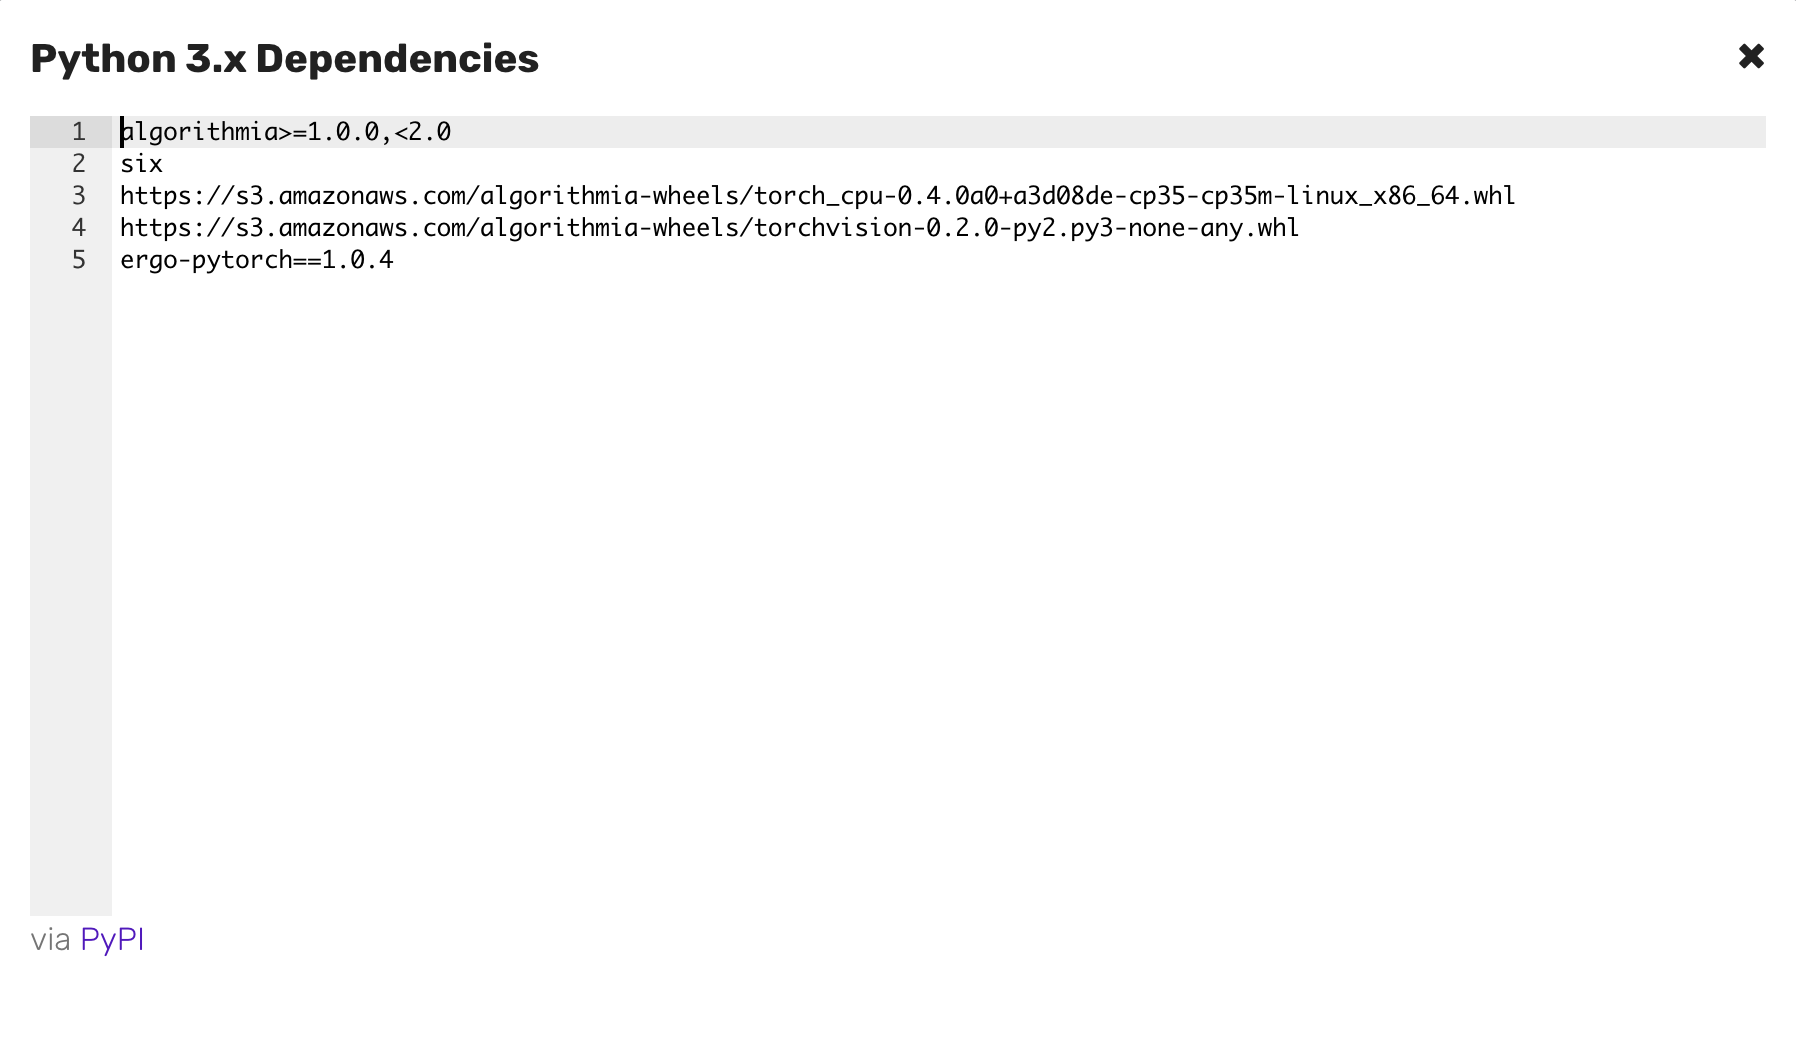
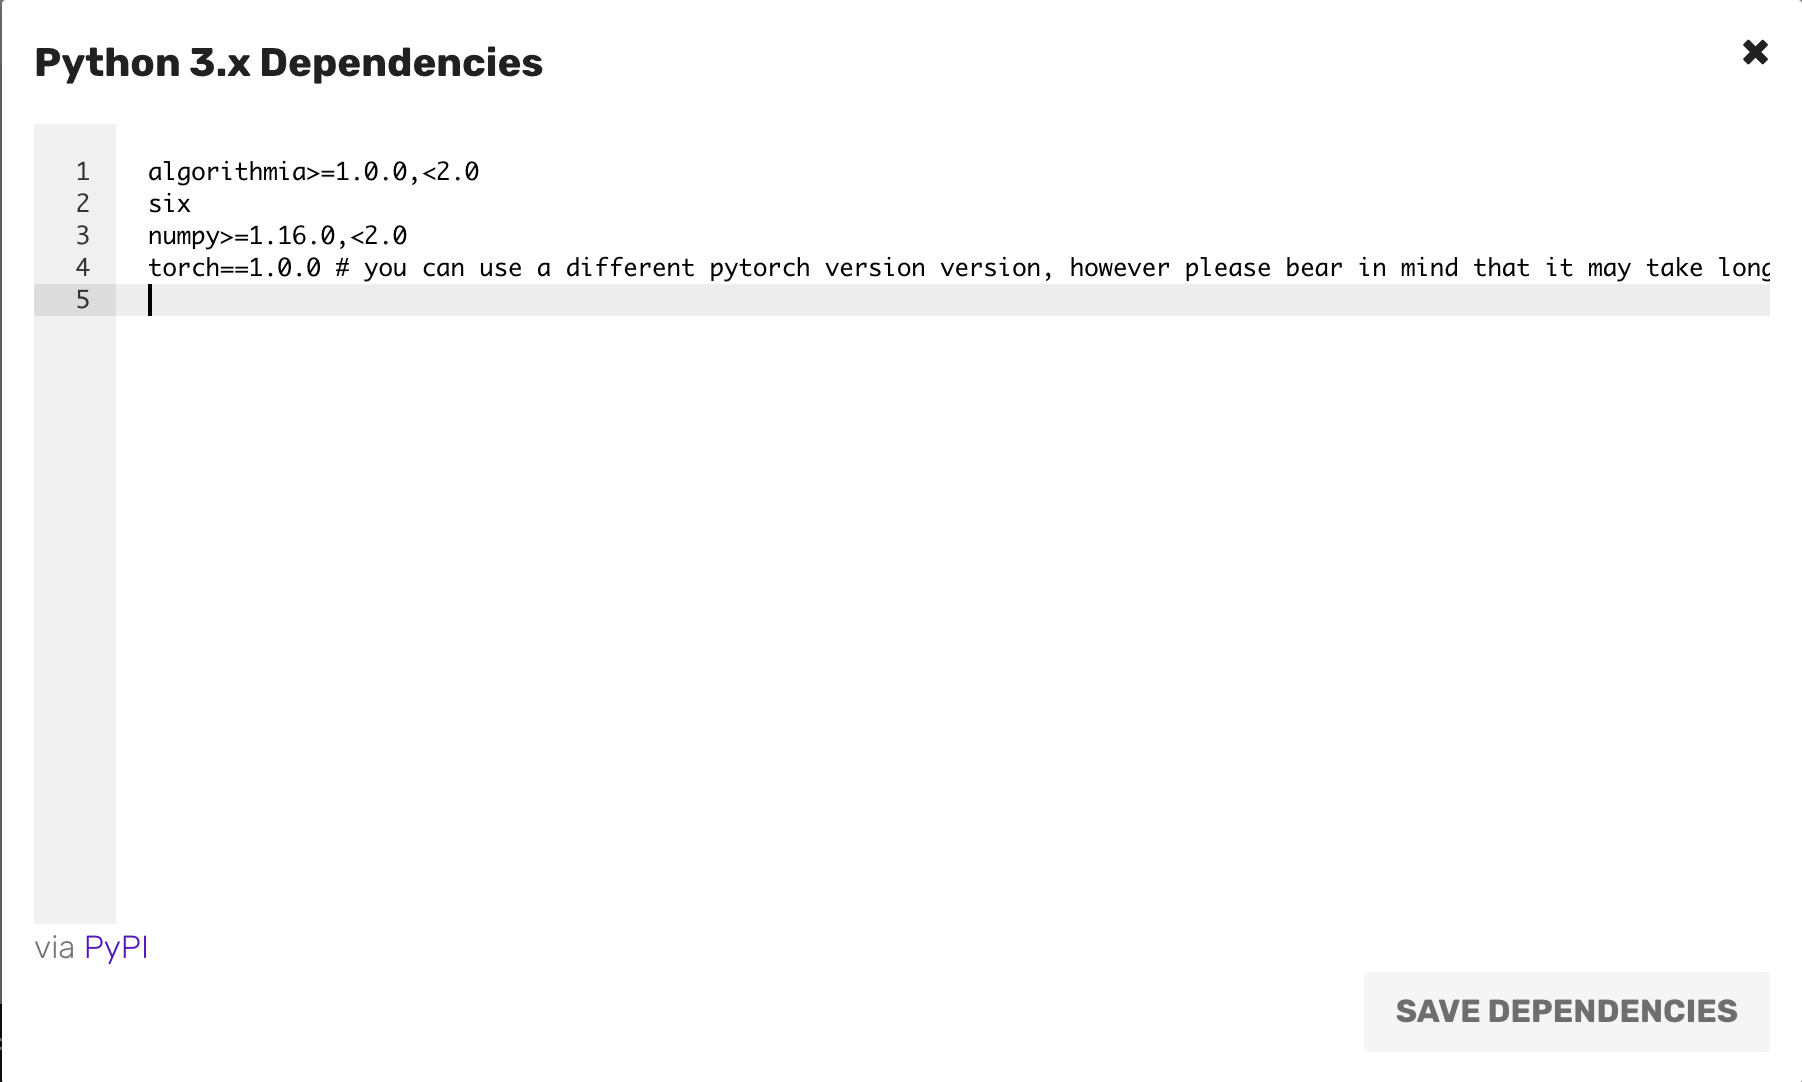
updated pytorch docs for 1.0

diff --git a/_pages/model-deployment/pytorch.md b/_pages/model-deployment/pytorch.md
@@ -33,16 +33,6 @@ Before you get started deploying your Pytorch model on Algorithmia there are a f
 
 You'll want to do the training and saving of your model on your local machine, or the platform you're using for training, before you deploy it to production on the Algorithmia platform.
 
-Saving and loading models in Pytorch can get tedious, because it requires keeping a copy of your source class code for any models you want to load again. The team at Algorithmia created a module for Python that sidesteps this process, along with a few other optimizations. For more information, check out the GitHub repo <a href="https://github.com/algorithmiaio/pytorch-ergonomics">here</a>.
-
-##### 1. Install and Import the Pytorch-Ergonomics Package
-
-Install the `ergo-pytorch` package using <a href="https://pypi.org/">Pypi</a> with `pip install ergo-pytorch==1.1.1`. Import the base module with `import ergonomics`, or a specific module with `from ergonomics import model_ergonomics`.
-
-##### 2. Save Your Model Using Our Ergonomics Package
-
-Instead of using Pytorch’s built in `model.save()` functionality, use `ergonomics.model_ergonomics.save_portable(source_path)`. This will save your model along with the class code, so you don’t need to copy and paste that later on.
-
 ### Create a Data Collection
 Host your data where you want and serve it to your model with Algorithmia's <a href="http://docs.algorithmia.com/">Data API</a>.
 
@@ -74,7 +64,7 @@ Next, upload your pickled model to your newly created data collection.
 ## Create your Algorithm
 Hopefully you've already followed along with the <a href="{{site.baseurl}}/algorithm-development/algorithm-basics/your-first-algo/">Getting Started Guide</a> for algorithm development. If not, you might want to check it out in order to understand the various permission types, how to enable a GPU environment, and use the CLI.
 
-Once you've gone through the <a href="{{site.baseurl}}/algorithm-development/algorithm-basics/your-first-algo/">Getting Started Guide</a>, you'll notice that when you've created your algorithm, there is boilerplate code in the editor that returns "Hello" and whatever you input to the console.
+Once you've gone through the <a href="{{site.baseurl}}/algorithm-development/algorithm-basics/your-first-algo/">Getting Started Guide</a>, you'll notice that when you've created your algorithm, there is boilerplate code in the editor. If you've chosen the Python 3.X beta PyTorch version when you created your algorithm, then you'll see more verbose boilerplate code. Otherwise it will be a simple "Hello World" algorithm.
 
 The main thing to note about the algorithm is that it's wrapped in the `apply()` function.
 
@@ -82,7 +72,7 @@ The apply() function defines the input point of the algorithm. We use the apply(
 
 Go ahead and remove the boilerplate code below that's inside the `apply()` function on line 6, but leave the `apply()` function intact:
 
-<img src="{{site.cdnurl}}{{site.baseurl}}/images/post_images/algo_dev_lang/algorithm_console_python.png" alt="Algorithm console Python" class="screenshot">
+<img src="{{site.cdnurl}}{{site.baseurl}}/images/post_images/algo_dev_lang/algorithm_console_pytorch.png" alt="Algorithm console Python" class="screenshot">
 
 ### Set your Dependencies
 Now is the time to set your dependencies that your model relies on.
@@ -90,15 +80,6 @@ Now is the time to set your dependencies that your model relies on.
 - Click on the **"Dependencies"** button at the top right of the UI and list your packages under the required ones already listed and click **"Save Dependencies"** on the bottom right corner.
 
 <img src="{{site.cdnurl}}{{site.baseurl}}/images/post_images/model_hosting/pytorch_dependencies.png" alt="Set your dependencies" class="screenshot img-md">
-
-For easy copy and paste:
-{% highlight python %}
-https://s3.amazonaws.com/algorithmia-wheels/torch_cpu-0.4.0a0+a3d08de-cp35-cp35m-linux_x86_64.whl
-https://s3.amazonaws.com/algorithmia-wheels/torchvision-0.2.0-py2.py3-none-any.whl
-ergo-pytorch==1.0.4
-{% endhighlight %}
-
-If you're using the CPU implementation of Pytorch, you can add `torch` directly to the dependencies. If you're using a GPU version, you'll need to use our customized `.whl` file. You can find it <a href="https://s3.amazonaws.com/algorithmia-wheels/torch_gpu-0.3.1b0+2b47480-cp35-cp35m-linux_x86_64.whl">here</a>, and read about it in more detail on the ergo-pytorch <a href="https://github.com/algorithmiaio/pytorch-ergonomics">repo</a>.
 
 ## Load your Model
 Here is where you load and run your model which will be called by the apply() function.
@@ -118,8 +99,6 @@ Note that you always want to create valid JSON input and output in your algorith
 
 Pytorch offers a few different distributions for download that are split by CPU and GPU. The Pytorch files for CPU usage are normal sized, but when using the GPU packages the files can get very large.
 
-For GPU based implementations we've created a workaround that loads the files much faster than the default. When using the workaround, the main file stays the same (see example hosted model below) but you'll need to create an extra file that executes the workaround. See the second example `implement.py` for how to do this.
-
 ### Example Hosted Model (Main):
 
 {% highlight python %}
@@ -131,112 +110,52 @@ For GPU based implementations we've created a workaround that loads the files mu
 
 import Algorithmia
 from PIL import Image
-import numpy as np
 import torch
-from torch.autograd import Variable
-from torchvision import transforms
-import os
-import ergonomics.model_ergonomics as ergonomics
+import torchvision
+import torchvision.transforms as transforms
 
 client = Algorithmia.client()
+classes = ('plane', 'car', 'bird', 'cat',
+           'deer', 'dog', 'frog', 'horse', 'ship', 'truck')
 
-def load_model(path):
-    newCNN = ergonomics.serialization.load_portable('MODEL_PATH')
-    return newCNN
-
-def preprocess(input_image):
-    file_url = client.file(input_image).getFile().name
-    #Normalize and resize image
+def preprocessing(image_path):
+    image_file = client.file(image_path).getFile().name
+    # Normalize and resize image
     normalize = transforms.Normalize(mean=[0.5, 0.5, 0.5], std=[0.5, 0.5, 0.5])
-    composed = transforms.Compose([transforms.Resize(32), transforms.ToTensor(),normalize])
-    img = Image.open(file_url)
+    preprocess = transforms.Compose(
+        [transforms.Resize((32, 32)),
+         transforms.ToTensor(), normalize])
+    img = Image.open(image_file)
     img.load()
-    output = composed(img)
-    return output
+    output = preprocess(img)
+    return(output)
 
-def predict(input, newCNN):
-    outputs = newCNN(Variable(torch.stack([input])))
-    _, predicted = torch.max(outputs.data, 1)
-    return int(predicted.numpy())
+def load_model():
+    file_path = "data://YOUR_USERNAME/YOUR_DATACOLLECTION/demo_model.t7"
+    model_file = client.file(file_path).getFile().name
+    return torch.jit.load(model_file).cuda()
 
+model = load_model()
+
+def predict(image):
+    image_tensor = image.unsqueeze_(0).float().cuda()
+    # Predict the class of the image
+    outputs = model(image_tensor)
+    _, predicted = torch.max(outputs, 1)
+    return predicted
+
+# API calls will begin at the apply() method, with the request body passed as 'input'
+# For more details, see algorithmia.com/developers/algorithm-development/languages
 def apply(input):
-    classes = ['plane', 'car', 'bird', 'cat', 'deer', 'dog', 'frog', 'horse', 'ship', 'truck']
-    newCNN = load_portable('MODEL_PATH')
-    outputs = []
-    for input_url in input['urls']:
-        processed = preprocess(input_url)
-        output = predict(processed, newCNN)
-        outputs.append(classes[output])
-
-    return {"output" : outputs}
-
+    # data://YOUR_USERNAME/YOUR_DATACOLLECTION/sample_animal1.jpg
+    processed_data = preprocessing(input)
+    prediction = predict(processed_data)
+    predictions = [classes[prediction[j]] for j in range(1)]
+    return "Predicted class is:  {0}".format(predictions)
 
 {% endhighlight %}
 
-If you're using GPUs, you'll also need to create a second file to implement the workaround:
-
-### Example Workaround File:
-
-{% highlight python %}
-"""
-    An example of how to speed up execution of your main code file.
-"""
-
-import Algorithmia
-from ergonomics.algorithm_ergonomics import execute_workaround
-
-client = Algorithmia.client()
-
-def load_pytorch_model():
-    filename = 'data://gagejustins/Pytorch/simpleCNN.zip'
-    model_loc = client.file(filename).getFile().name
-    return model_loc
-
-model_loc = load_pytorch_model()
-
-def parseInputs(input):
-    #Iterate through input and append urls to input_urls list
-    output = {'urls': []}
-    if isinstance(input, dict):
-        if 'test_data' in input and isinstance(input['test_data'], str):
-            output['urls'].append(input['test_data'])
-        elif 'test_data' in input and isinstance(input['test_data'], list):
-            output['urls'] = input['test_data']
-        else:
-            raise AlgorithmError("AlgoError3000: Invalid input")
-
-    return output
-
-
-def apply(input):
-    #Define classes
-    #Parse input into list of input_urls
-    formatted = parseInputs(input)
-    formatted['local_model_path'] = model_loc
-    #Apply algorithm to inputs and append output to outputs list
-    output = execute_workaround(formatted, "src/main.py", "execute")
-
-    return output
-
-{% endhighlight %}
-
-Now when you run this code, the expected input is:
-{% highlight python %}
-{
-   "test_data": ["data://user_name/pytorch_data/horse.jpg",
-   "data://user_name/pytorch_data/frog.jpg"]
-}
-{% endhighlight %}
-
-With the expected output:
-{% highlight python %}
-{
-  "output": [
-    "horse",
-    "frog"
-  ]
-}
-{% endhighlight %}
+Where it return the predicted class of the image such as: "Plane"
 
 If you run into any problems or need help, don't hesitate to reach out to our team!
 
@@ -252,6 +171,6 @@ In this modal, you'll see a Changes tab, a Sample I/O tab, and one called Versio
 If you don't recall from the <a href="{{site.baseurl}}/algorithm-development/algorithm-basics/your-first-algo/">Getting Started Guide</a> how to go through the process of publishing your model, check that out before you finish publishing.
 
 ## Working Demo
-If you would like to check this demo out on the platform you can find it here: <a href="https://algorithmia.com/algorithms/algorithmiahq/pytorchDemo">Pytorch CNN Demo.</a>
+If you would like to check a demo out on the platform you can find it here: <a href="https://algorithmia.com/algorithms/stephanie/pytorchjitgpu"><PyTorchJitGPU</a>
 
 That's it for hosting your <a href="http://pytorch.org/">Pytorch</a> model on Algorithmia!
